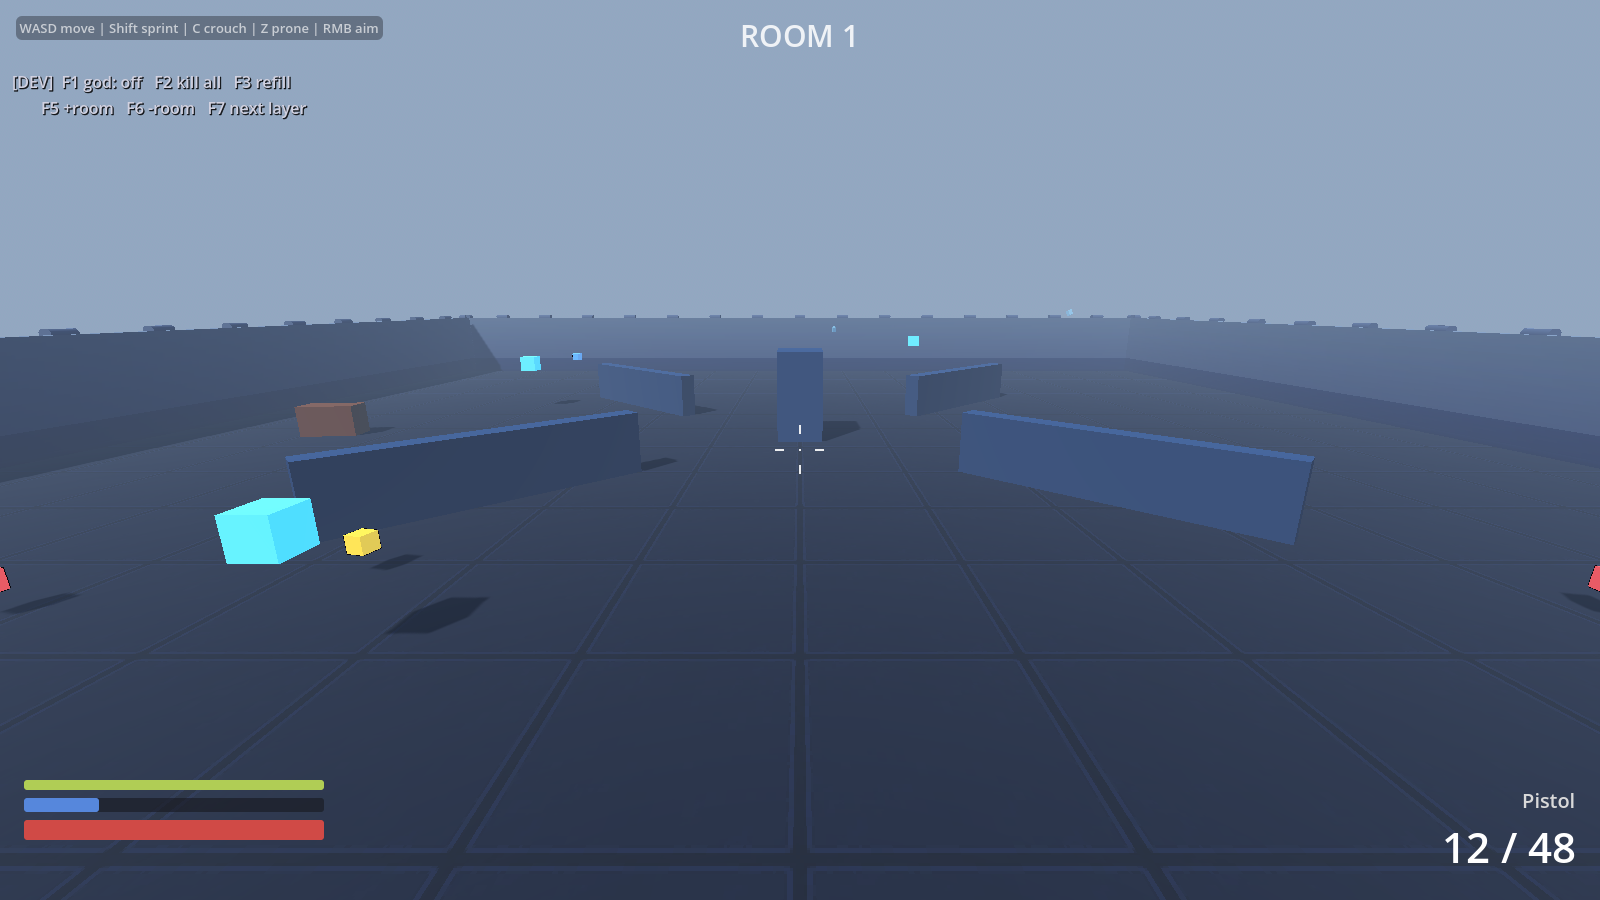
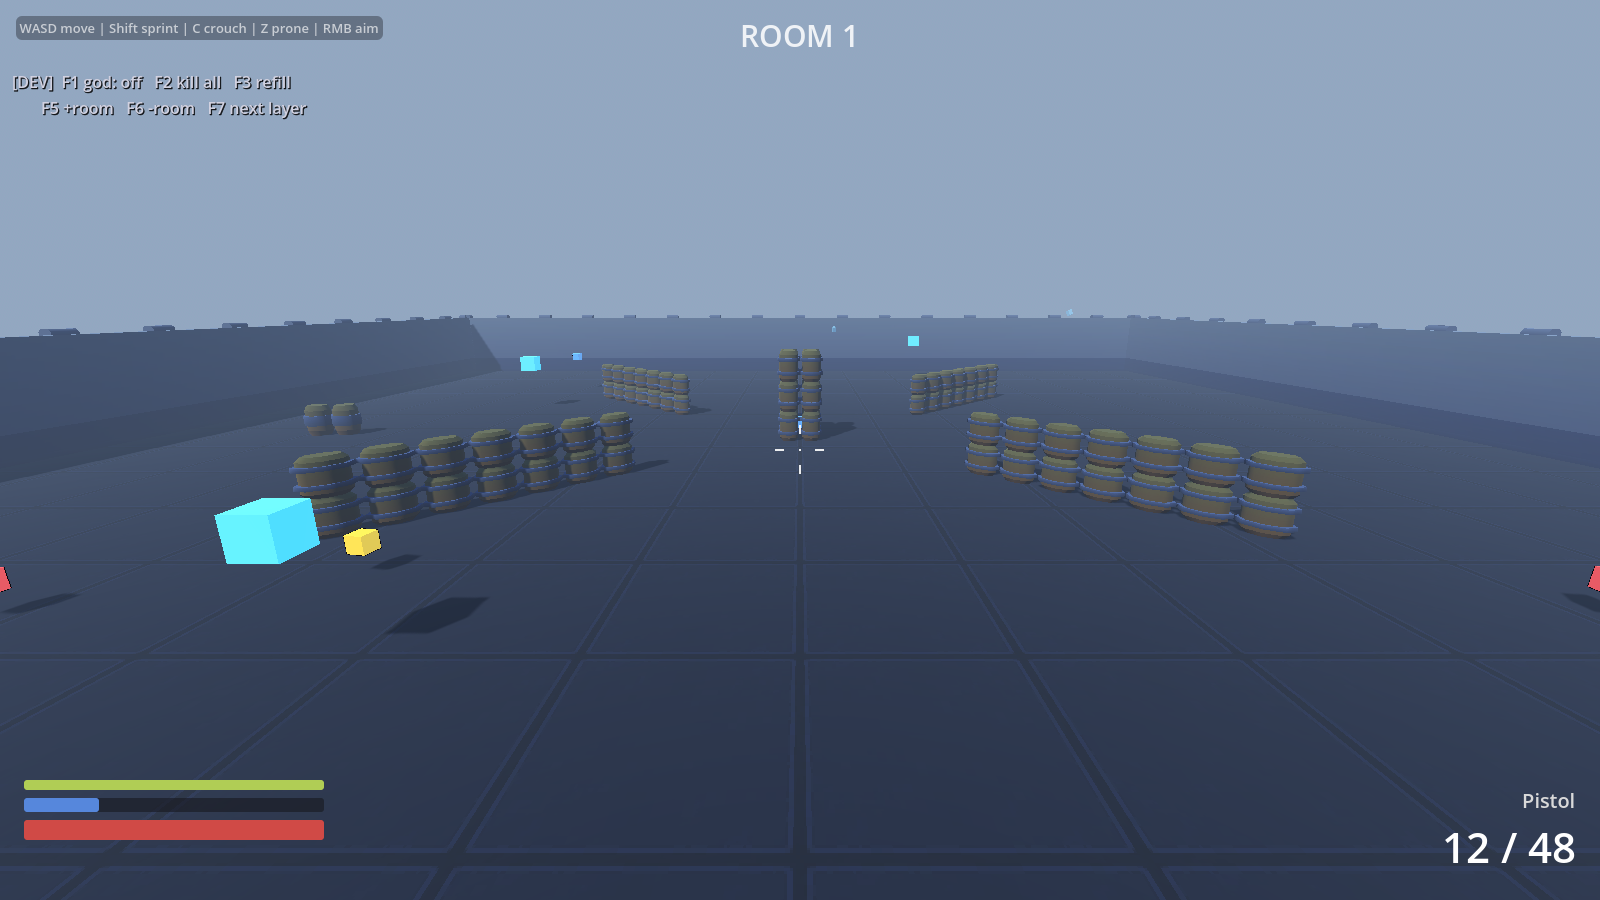
Pass D: furnish cover boxes with tinted kit props
Each cover/obstacle box is now skinned with a small CLUSTER of tinted kit props
(barrels) instead of a flat gray box -- visual-only, like the shell skin: the
gray box mesh is hidden but its collision + RVO obstacle stay, so gameplay and
the navmesh are unchanged.

- RoomKit.skin_obstacle tiles near-cubic cells of a prop to fill the box, so each
  prop's scaling stays near-uniform (reads as real cargo, no stretch distortion).
  Wired in _instantiate_boxes, gated on the active kit, skipped for ghost rooms.
- Props are shared across kits (full paths) and tinted while KEEPING their own
  colormap (_prop_tint_material reads the mesh's own albedo_texture), so a
  space-station prop never samples a different kit's atlas.
- container* = barrels (good cover); structure = open frame (avoided). crate ->
  container, struct -> container-tall. Gallery: tools/kit_props_preview.tscn.
- kit_room_test asserts every cover box is skinned (gray mesh hidden, prop added,
  collision kept). All 41 harnesses green.

Changed region(s): [[0.1562, 0.4044, 0.4375, 0.6222], [0.5625, 0.4044, 0.8438, 0.6222], [0.4688, 0.3733, 0.5312, 0.4978]]

diff --git a/context_systems.md b/context_systems.md
@@ -949,17 +949,27 @@ meshes are invisible to the bake. Assets live under `Assets/kenney_space-station
   nearest whole wall courses then scales Y to fill `WALL_HEIGHT` exactly, and aligns the wall's
   inner face by the mesh's local +Z extent (handles centred vs face-origin meshes).
   `RoomBuilder._resolve_kit` maps the profile's `"kit"` id to the pack (cached per id).
+- **Cover props (Pass D)** — `RoomKit.skin_obstacle` fills each cover/obstacle box with a small
+  CLUSTER of tinted kit props instead of the gray box (gray mesh hidden, collision + RVO kept;
+  visual-only, like the shell skin). Clustering near-cubic cells keeps each prop's scaling
+  near-uniform so they read as real cargo, not a stretched box. Wired in `_instantiate_boxes`
+  (gated on the active kit, skipped for ghost rooms). Props are shared across kits (full paths,
+  tinted while KEEPING their own colormap via `tint_node`/`_prop_tint_material` -- a
+  space-station prop must not sample another kit's atlas). PROP NOTE: the `container*` pieces
+  are barrels/drums (good industrial cover); `structure` is an open FRAME/table (bad as solid
+  cover -- avoid). crate kind -> `container`, struct/pillar -> `container-tall`. Eyeball props
+  via `tools/kit_props_preview.tscn` (gallery).
 - **Status** — Pass A (RoomKit + recolour) + B (rect skin) + C (generic over all shapes) +
-  LIVE ON REAL LAYERS shipped; `KIT_ROOM_OK`, all 41 harnesses green. The Heap uses the
-  space-station kit, the Stack the modular-space kit (`"kit"` keys in LayerCatalog), so
-  descending Heap->Stack swaps the WHOLE pack -- the strongest major-transition read. Both
-  Kenney packs are in use, as Vor wanted. (Eyeball via `tools/layer_look_preview.tscn` = real
-  kitted Heap + Stack.) TUNING NOTE: the Heap's authored `fog_density` 0.020 is thick enough
-  to obscure much of the new kit detail -- drop toward ~0.012-0.015 if the kit should breathe.
-  Later: a toon-shaded tint material; prop vignettes for cover (Pass D — `container*` reads
-  as crates better than `structure-barrier`); rigged Kenney characters on enemies (Pass E —
-  needs care vs the primitive-mesh death ragdoll); hand-built hero rooms (Pass F); deeper
-  layers (Cache/Kernel/I-O) can remix the two packs (or add a third).
+  LIVE ON REAL LAYERS + Pass D (cover props) shipped; `KIT_ROOM_OK`, all 41 harnesses green.
+  The Heap uses the space-station kit, the Stack the modular-space kit (`"kit"` keys in
+  LayerCatalog), so descending Heap->Stack swaps the WHOLE pack -- the strongest major-
+  transition read. Both Kenney packs in use, as Vor wanted. (Eyeball via
+  `tools/layer_look_preview.tscn` = real kitted + furnished Heap + Stack.) TUNING NOTE: the
+  Heap's authored `fog_density` 0.020 is thick enough to obscure much of the kit detail -- drop
+  toward ~0.012-0.015 if the kit should breathe. Later: a toon-shaded tint material; prop
+  VARIETY (mix more prop types per box, not just barrels) + hackable-cube skin; rigged Kenney
+  characters on enemies (Pass E — needs care vs the primitive-mesh death ragdoll); hand-built
+  hero rooms (Pass F); deeper layers (Cache/Kernel/I-O) can remix the two packs (or add a third).
 - **Tools** — `tools/kit_preview.tscn` (Heap + Stack rect rooms) + `tools/kit_shapes_preview.tscn`
   (real generated T + plus kit'd rooms), both NON-headless PNG renders for eyeballing;
   `tools/kit_measure.tscn` (non-asserting) dumps each piece's AABB to recover a kit's module

diff --git a/CLAUDE.md b/CLAUDE.md
@@ -59,10 +59,11 @@ Headings in `context_systems.md`:
   recoloured per-layer by multiplying the shared colormap atlas. Visual-only over the tested
   collision (navmesh bakes from colliders, untouched). Gated on profile `"kit"`. Grid-agnostic:
   the **Heap** uses the space-station kit (fine 1 m grid), the **Stack** the modular-space kit
-  (chunky 4 m grid) → descending swaps the whole pack (major-transition variety). Pass A+B+C +
-  live-on-real-layers done (`KIT_ROOM_OK`, generic over rect/L/T/plus, 41 harnesses green).
-  Next: prop vignettes (Pass D), characters (Pass E), hero rooms (Pass F); deeper layers can
-  remix the packs. Assets in `Assets/kenney_*`.
+  (chunky 4 m grid) → descending swaps the whole pack (major-transition variety). Cover boxes
+  furnished with tinted prop clusters (Pass D). Pass A+B+C + live-on-real-layers + D done
+  (`KIT_ROOM_OK`, generic over rect/L/T/plus, 41 harnesses green). Next: prop variety,
+  characters (Pass E), hero rooms (Pass F); deeper layers can remix the packs. Assets in
+  `Assets/kenney_*`.
 - **Developer tools** — DevTools autoload, debug-build cheats (F1 god / F2 kill all / F3 refill / F5-F6 room jump / F7 layer jump). Plus a **Sandbox** test map (main-menu **TEST MAP** → `scenes/ui/sandbox.tscn`): a kitted free-play arena (every hack adjective unlocked + both abilities granted, hackable cubes over dummies) for trying new mechanics outside the run flow.
 - **Current state** — running changelog of everything shipped so far.
 

diff --git a/context_architecture.md b/context_architecture.md
@@ -498,7 +498,9 @@ scripts. On Windows the Godot exe detaches from the console, so use
     `Floor` mesh hidden while its `StaticBody`+`CollisionShape3D` survive; a forced kit'd
     T-shape gets `KitFloor`+`KitFloor2` + ≥2 `KitWallNotch*` overlays with NO kit floor tile
     in its bare NE corner; an ENDLESS build (no `"kit"`) stays on the plain gray shell (the
-    gate). GATING: `build_room` only skins when `profile.has("kit")`, so ENDLESS + every
+    gate). Pass D: every cover box is skinned -- `RoomKit.skin_obstacle` fills it with a tinted
+    prop CLUSTER (gray box mesh hidden, props added, collision + RVO kept).
+    GATING: `build_room` only skins when `profile.has("kit")`, so ENDLESS + every
     un-kitted layer is byte-for-byte unchanged. LIVE ON REAL LAYERS: the Heap profile carries
     `"kit":"space_station"` (fine 1 m grid) and the Stack `"kit":"modular_space"` (the chunky
     4 m Kenney modular-space kit -- full-height single-piece walls + flat 4 m floor planes), so